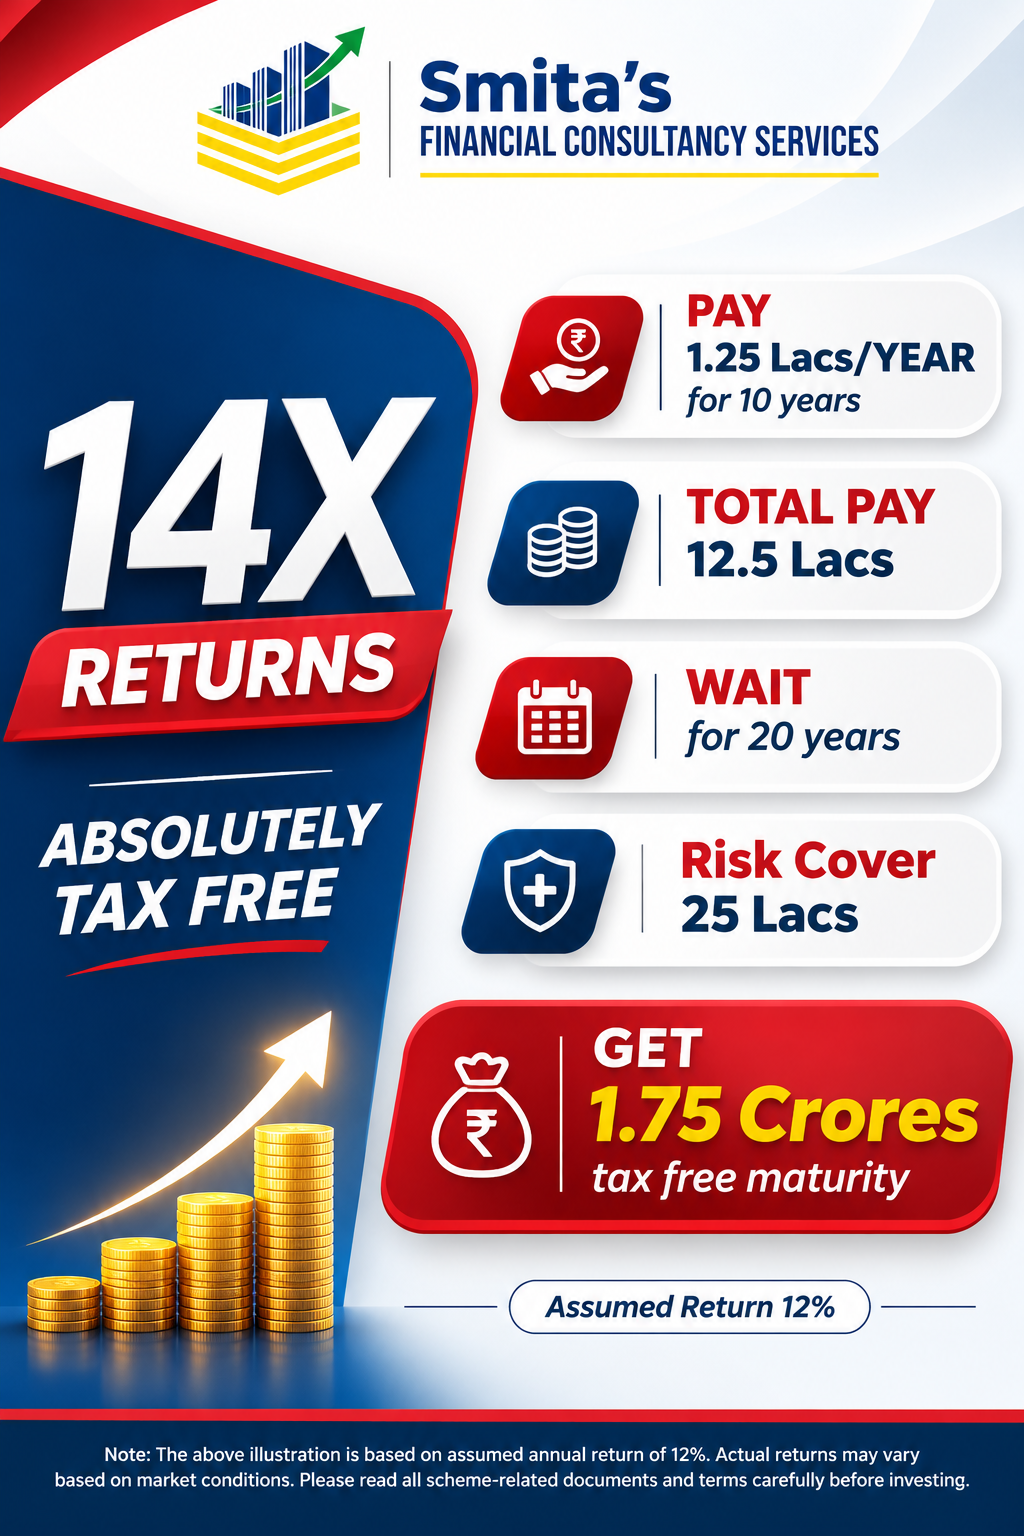
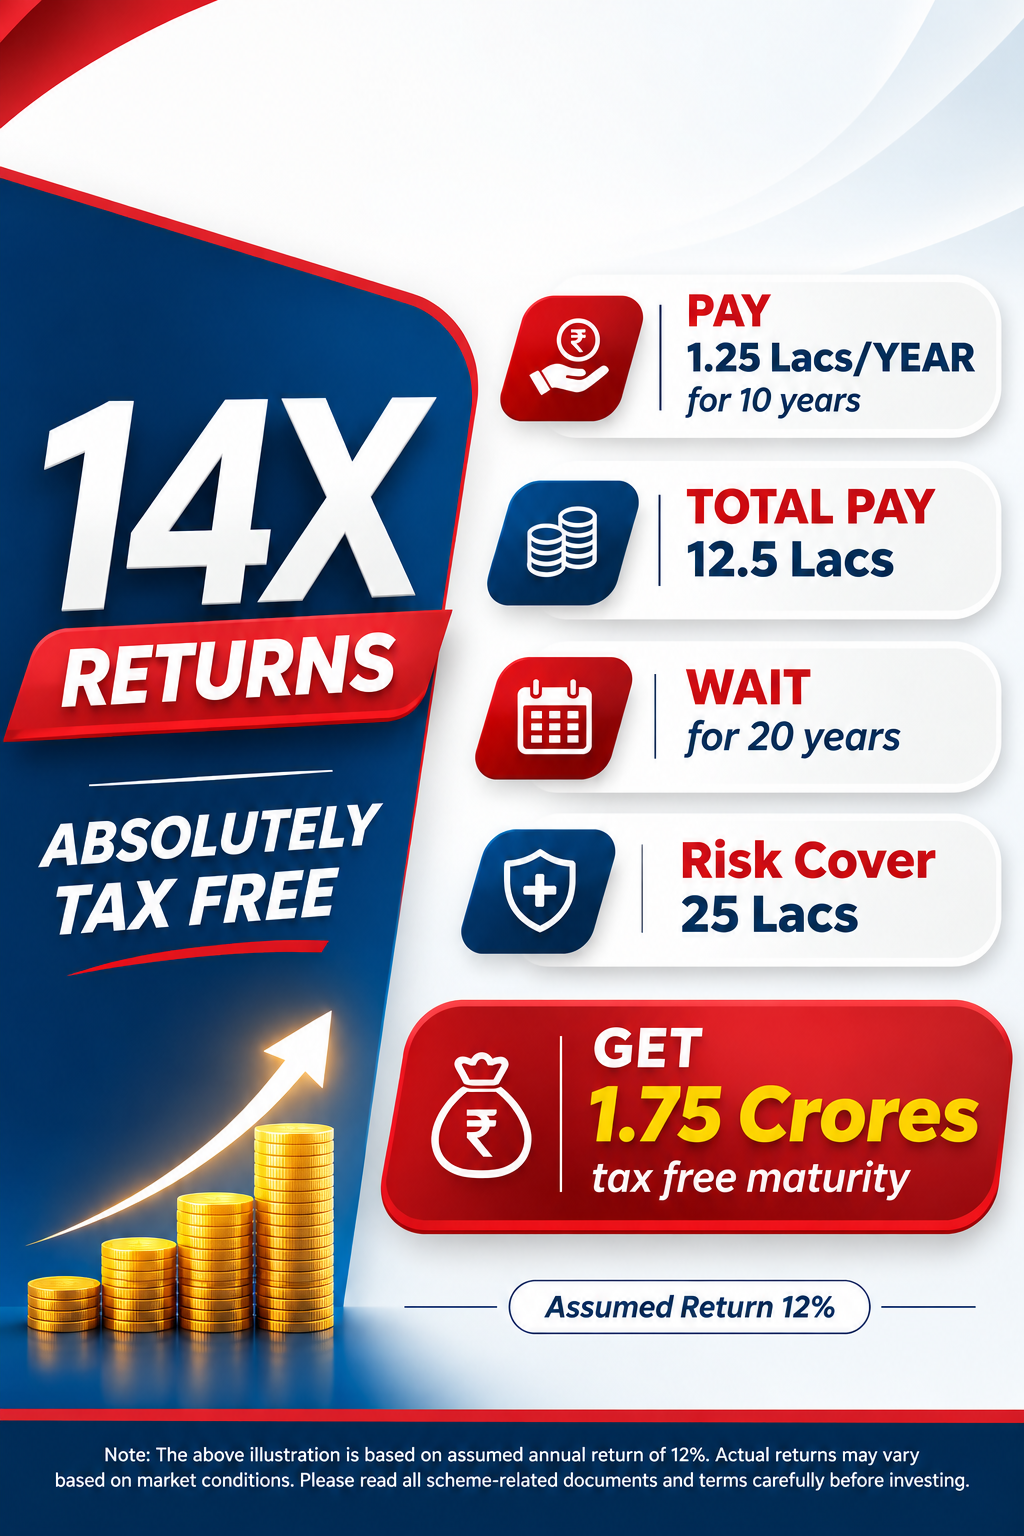
Group scheme flyers by provider and update savings image

diff --git a/src/App.jsx b/src/App.jsx
@@ -6,10 +6,9 @@ const STORAGE_KEY_MY_REVIEWS = 'sfcs_my_review_ids_v1';
 const SIP_ACCOUNT_URL = 'http://p.njw.bz/28795';
 const SITE_SHARE_URL = 'https://smitasfinancialconsultancyservices.vercel.app/?share=profile';
 const FLYER_SECTIONS = [
-  { tag: 'Flyer collection 1' },
-  { tag: 'Flyer collection 2' },
-  { tag: 'Flyer collection 3' },
-  { tag: 'Flyer collection 4' }
+  { tag: 'Mutual Funds & SIP', flyerIds: [1, 3, 5, 6, 7, 9, 10, 11, 12] },
+  { tag: 'Kotak Life Insurance', flyerIds: [2, 4, 8] },
+  { tag: 'Tata AIG Health Insurance', flyerIds: [13, 14, 15, 16, 17] }
 ];
 const INITIAL_REVIEWS = [
   {
@@ -877,7 +876,7 @@ export default function App() {
     { id: 16, title: 'Tata AIG MediCare Select: Twin Sharing Benefit', src: 'assets/gallery_tata_aig_twin_sharing.jpg', caption: 'Tata AIG MediCare Select: Twin Sharing Benefit' },
     { id: 17, title: 'Tata AIG MediCare Select: Preventive Health Check-Up', src: 'assets/gallery_tata_aig_preventive_checkup.jpg', caption: 'Tata AIG MediCare Select: Preventive Health Check-Up' }
   ];
-  const schemeSlideCount = Math.ceil(galleryFlyers.length / FLYER_SECTIONS.length);
+  const schemeSlideCount = Math.max(...FLYER_SECTIONS.map(section => section.flyerIds.length));
   useEffect(() => {
     if (window.matchMedia('(prefers-reduced-motion: reduce)').matches || schemeSlideCount < 2) return;
     const timer = window.setInterval(() => {
@@ -2292,13 +2291,13 @@ export default function App() {
                 Authentic Scheme Catalogues & Flyers
               </h2>
               <p className="text-slate-600 text-xs sm:text-sm mt-2">
-                Explore the latest insurance, investment and financial planning flyers across four collections.
+                Explore investment and insurance flyers grouped by provider and subject.
               </p>
             </div>
 
-            <div className="space-y-0" aria-label="Scheme flyer collections">
-              {FLYER_SECTIONS.map((category, sectionIndex) => {
-                const categoryItems = galleryFlyers.filter((item, flyerIndex) => flyerIndex % FLYER_SECTIONS.length === sectionIndex);
+            <div className="space-y-8" aria-label="Scheme flyer collections">
+              {FLYER_SECTIONS.map(category => {
+                const categoryItems = galleryFlyers.filter(item => category.flyerIds.includes(item.id));
                 const categoryLength = categoryItems.length;
                 const categoryOffset = schemeSlideOffsets[category.tag] || 0;
                 const activeIndex = categoryLength
@@ -2306,19 +2305,21 @@ export default function App() {
                   : 0;
 
                 return (
-                  <SchemeFlyerCarousel
-                    key={category.tag}
-                    category={category}
-                    items={categoryItems}
-                    activeIndex={activeIndex}
-                    onManualIndexChange={index => setSchemeSlideOffsets(offsets => ({
-                      ...offsets,
-                      [category.tag]: categoryLength
-                        ? (index - (schemeSlideIndex % categoryLength) + categoryLength) % categoryLength
-                        : 0
-                    }))}
-                    onOpen={item => setLightboxData({ open: true, src: item.src, caption: item.caption })}
-                  />
+                  <div key={category.tag} className="rounded-3xl border border-slate-200 bg-white px-4 pb-3 shadow-lg sm:px-6">
+                    <h3 className="border-b border-slate-200 py-5 font-heading text-xl font-extrabold text-[#000080] sm:text-2xl">{category.tag}</h3>
+                    <SchemeFlyerCarousel
+                      category={category}
+                      items={categoryItems}
+                      activeIndex={activeIndex}
+                      onManualIndexChange={index => setSchemeSlideOffsets(offsets => ({
+                        ...offsets,
+                        [category.tag]: categoryLength
+                          ? (index - (schemeSlideIndex % categoryLength) + categoryLength) % categoryLength
+                          : 0
+                      }))}
+                      onOpen={item => setLightboxData({ open: true, src: item.src, caption: item.caption })}
+                    />
+                  </div>
                 );
               })}
             </div>
